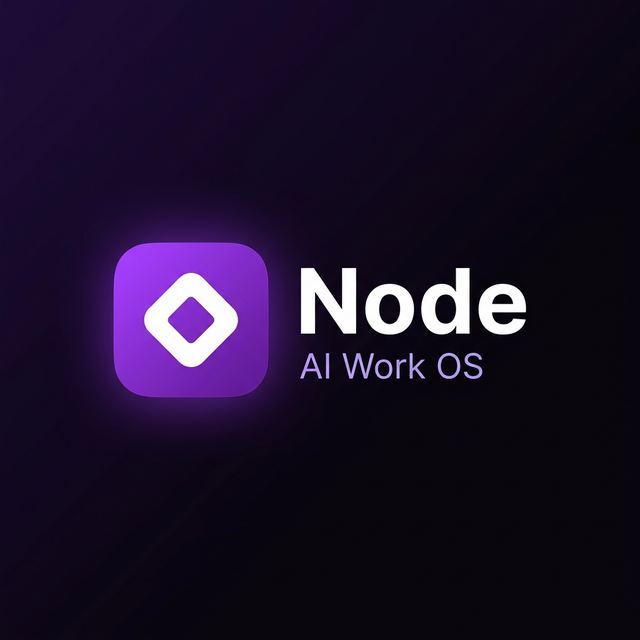
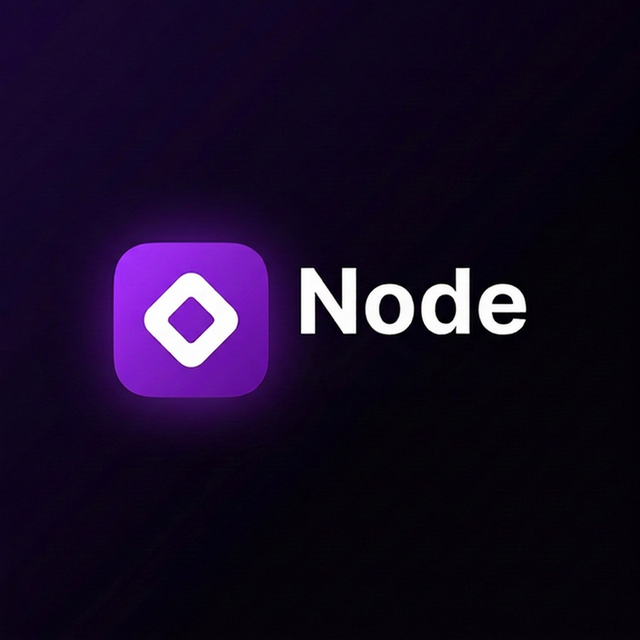
chore: update OG image (remove subtitle, center text) and update meta descriptions

Changed region(s): [[0.4688, 0.5312, 0.75, 0.5938]]

diff --git a/index.html b/index.html
@@ -21,7 +21,7 @@
 
   <!-- Open Graph (WhatsApp / LinkedIn / Facebook preview) -->
   <meta property="og:title" content="Node — The Work OS" />
-  <meta property="og:description" content="AI Work OS" />
+  <meta property="og:description" content="The Thinking OS" />
   <meta property="og:type" content="website" />
   <meta property="og:url" content="https://trynode.vercel.app/" />
   <meta property="og:image" content="https://trynode.vercel.app/og-image.png" />
@@ -29,7 +29,7 @@
   <!-- Twitter preview -->
   <meta name="twitter:card" content="summary_large_image" />
   <meta name="twitter:title" content="Node — The Work OS" />
-  <meta name="twitter:description" content="AI Work OS" />
+  <meta name="twitter:description" content="The Thinking OS" />
   <meta name="twitter:image" content="https://trynode.vercel.app/og-image.png" />
 
   <!-- Google Identity Services -->
